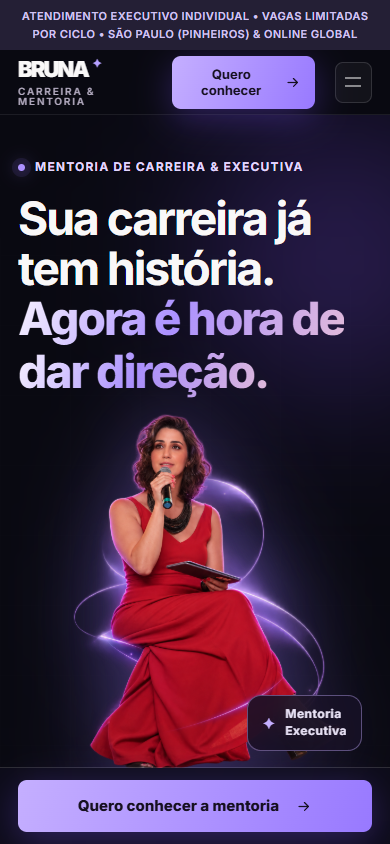
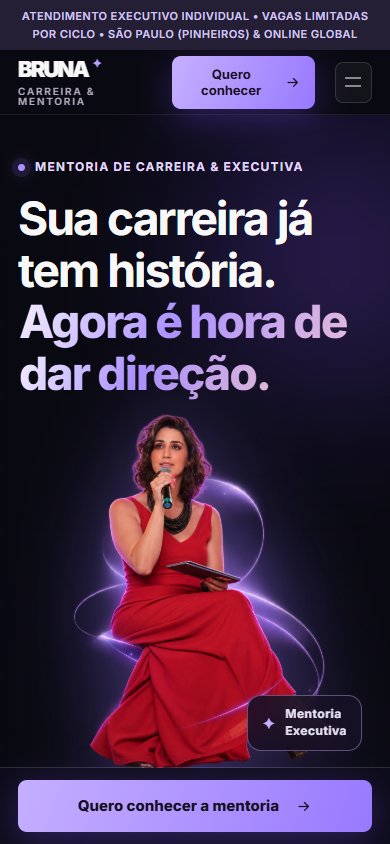
fix(typography): corrigir corte do acento da letra 'é' e aprimorar espacamento do h1 no hero

Changed region(s): [[0.0308, 0.2156, 0.8923, 0.4929]]

diff --git a/css/sections.css b/css/sections.css
@@ -192,8 +192,8 @@
 
 .hero h1 {
   font-size: clamp(46px, 5.2vw, 82px);
-  letter-spacing: -0.045em;
-  line-height: 1.09;
+  letter-spacing: -0.042em;
+  line-height: 1.12;
   font-weight: 680;
   max-width: 720px;
   margin: 0;
@@ -1117,8 +1117,8 @@
 
   .hero h1 {
     font-size: clamp(46px, 5.8vw, 68px);
-    line-height: 1.09;
-    letter-spacing: -0.045em;
+    line-height: 1.12;
+    letter-spacing: -0.042em;
   }
 
   .presentation-grid {
@@ -1285,8 +1285,8 @@
     order: 2;
     font-size: clamp(46px, 11.5vw, 70px);
     max-width: 100%;
-    letter-spacing: -0.042em;
-    line-height: 1.09;
+    letter-spacing: -0.040em;
+    line-height: 1.12;
     padding-bottom: 0.05em;
   }
 
@@ -2019,8 +2019,8 @@
 @media (max-width: 380px) {
   .hero h1 {
     font-size: clamp(35px, 10.5vw, 42px);
-    line-height: 1.10;
-    letter-spacing: -0.04em;
+    line-height: 1.14;
+    letter-spacing: -0.038em;
   }
 
   .nav .btn {

diff --git a/css/base.css b/css/base.css
@@ -129,7 +129,11 @@ textarea:focus-visible {
   background-clip: text;
   color: transparent;
   display: inline-block;
-  padding-bottom: 0.06em;
+  padding-top: 0.16em;
+  margin-top: -0.16em;
+  padding-bottom: 0.08em;
+  margin-bottom: -0.08em;
+  padding-inline: 0.02em;
   -webkit-box-decoration-break: clone;
   box-decoration-break: clone;
 }
